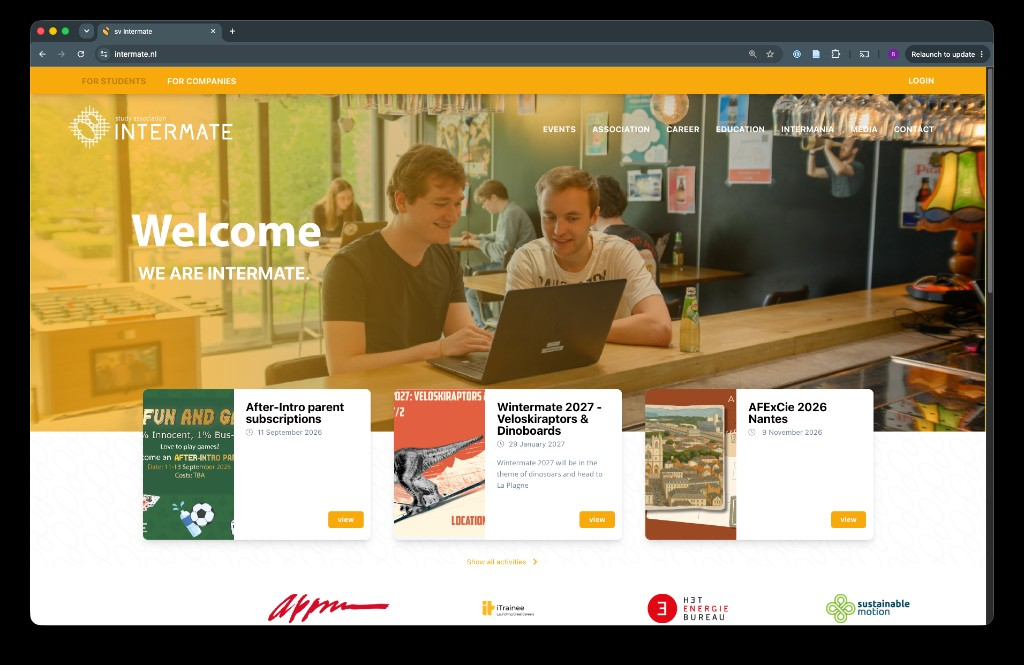
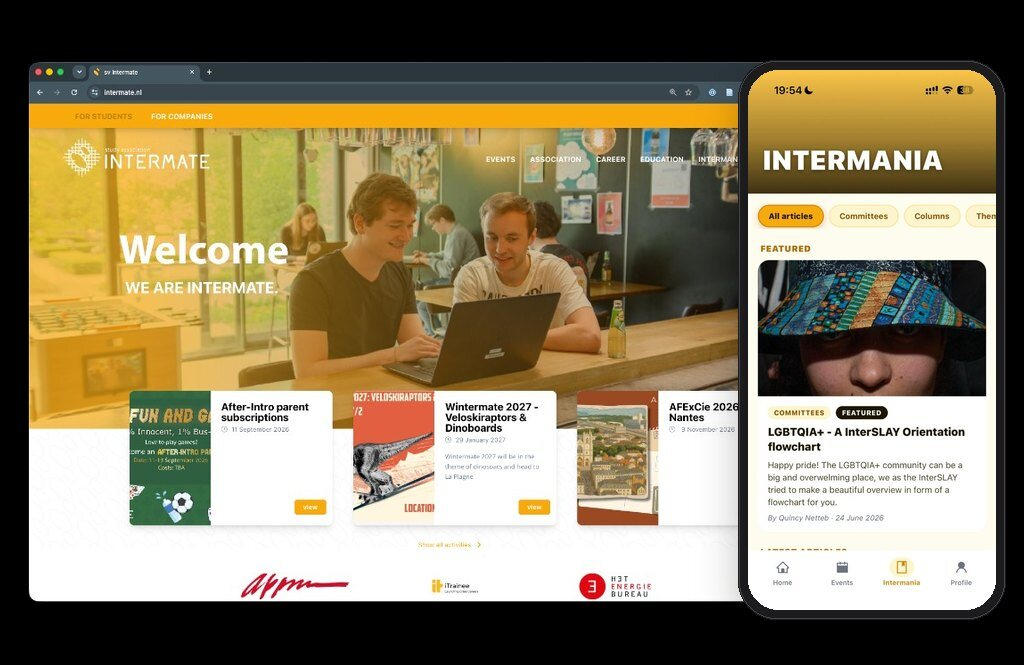
Place the Intermate app in a phone frame over the website screenshot.

diff --git a/index.html b/index.html
@@ -257,9 +257,8 @@
           </article>
 
           <article class="work-item">
-            <div class="work-media work-media--phone">
-              <img src="assets/showcase-intermate.png" alt="Screenshot van de homepage van studievereniging Intermate" width="1024" height="665" loading="lazy">
-              <img class="work-phone" src="assets/showcase-intermate-app.jpg" alt="Screenshot van Intermania in de Intermate-app" width="470" height="1024" loading="lazy">
+            <div class="work-media">
+              <img src="assets/showcase-intermate.png" alt="Screenshot van de homepage van Intermate, met de Intermania-app ervoor" width="1024" height="665" loading="lazy">
             </div>
             <div class="work-body">
               <span class="work-tag">Studievereniging · Website &amp; app</span>

diff --git a/css/styles.css b/css/styles.css
@@ -700,19 +700,6 @@ section {
   height: auto;
 }
 
-.work-media--phone .work-phone {
-  position: absolute;
-  z-index: 1;
-  right: 5.5%;
-  bottom: 8%;
-  width: 24%;
-  height: auto;
-  border-radius: 1.15rem;
-  box-shadow:
-    0 0 0 3px #141416,
-    0 16px 32px rgba(0, 0, 0, 0.45);
-}
-
 .work-tag {
   display: block;
   margin-bottom: 0.85rem;
